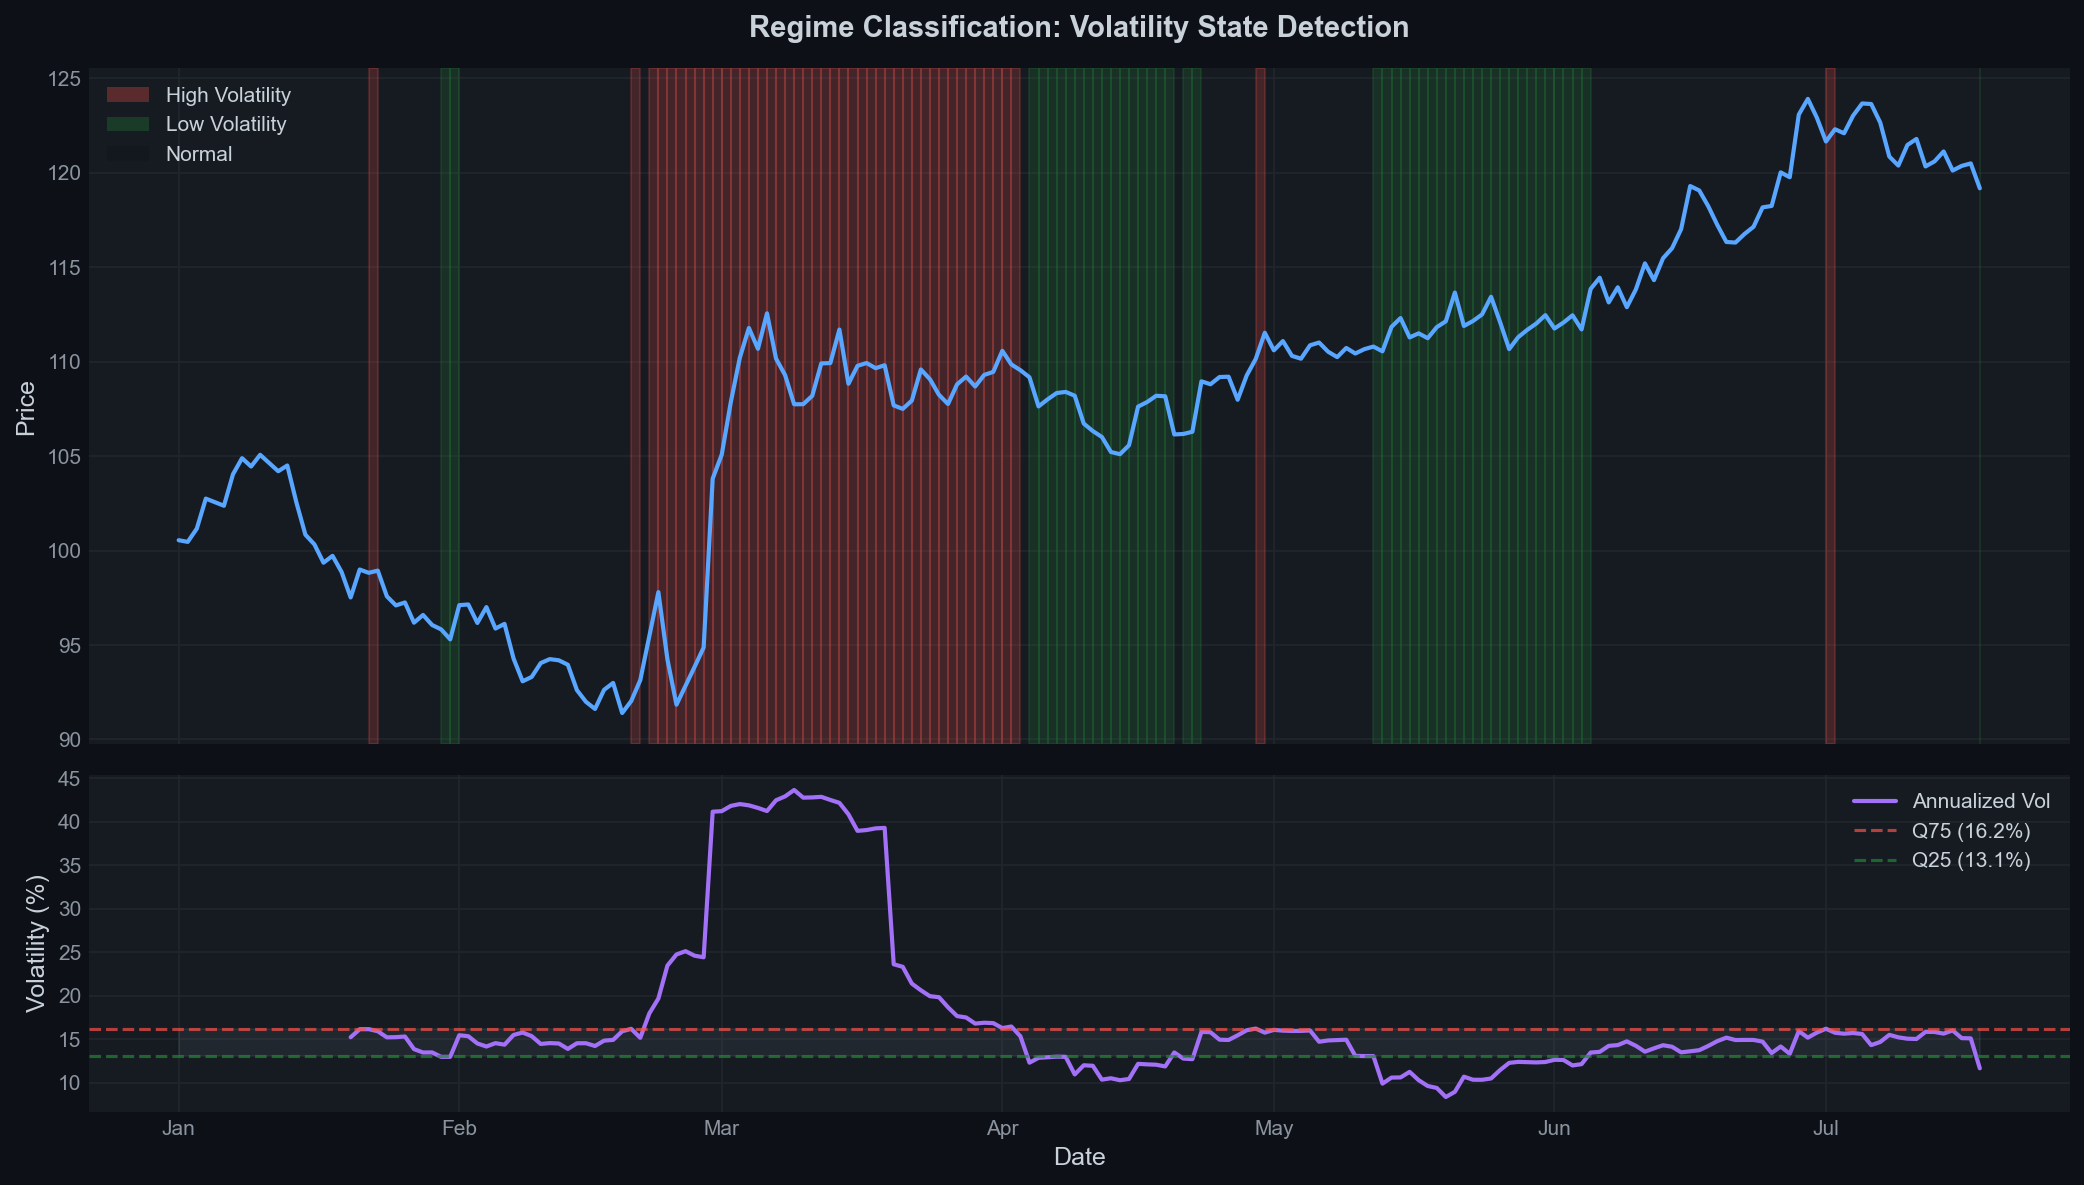
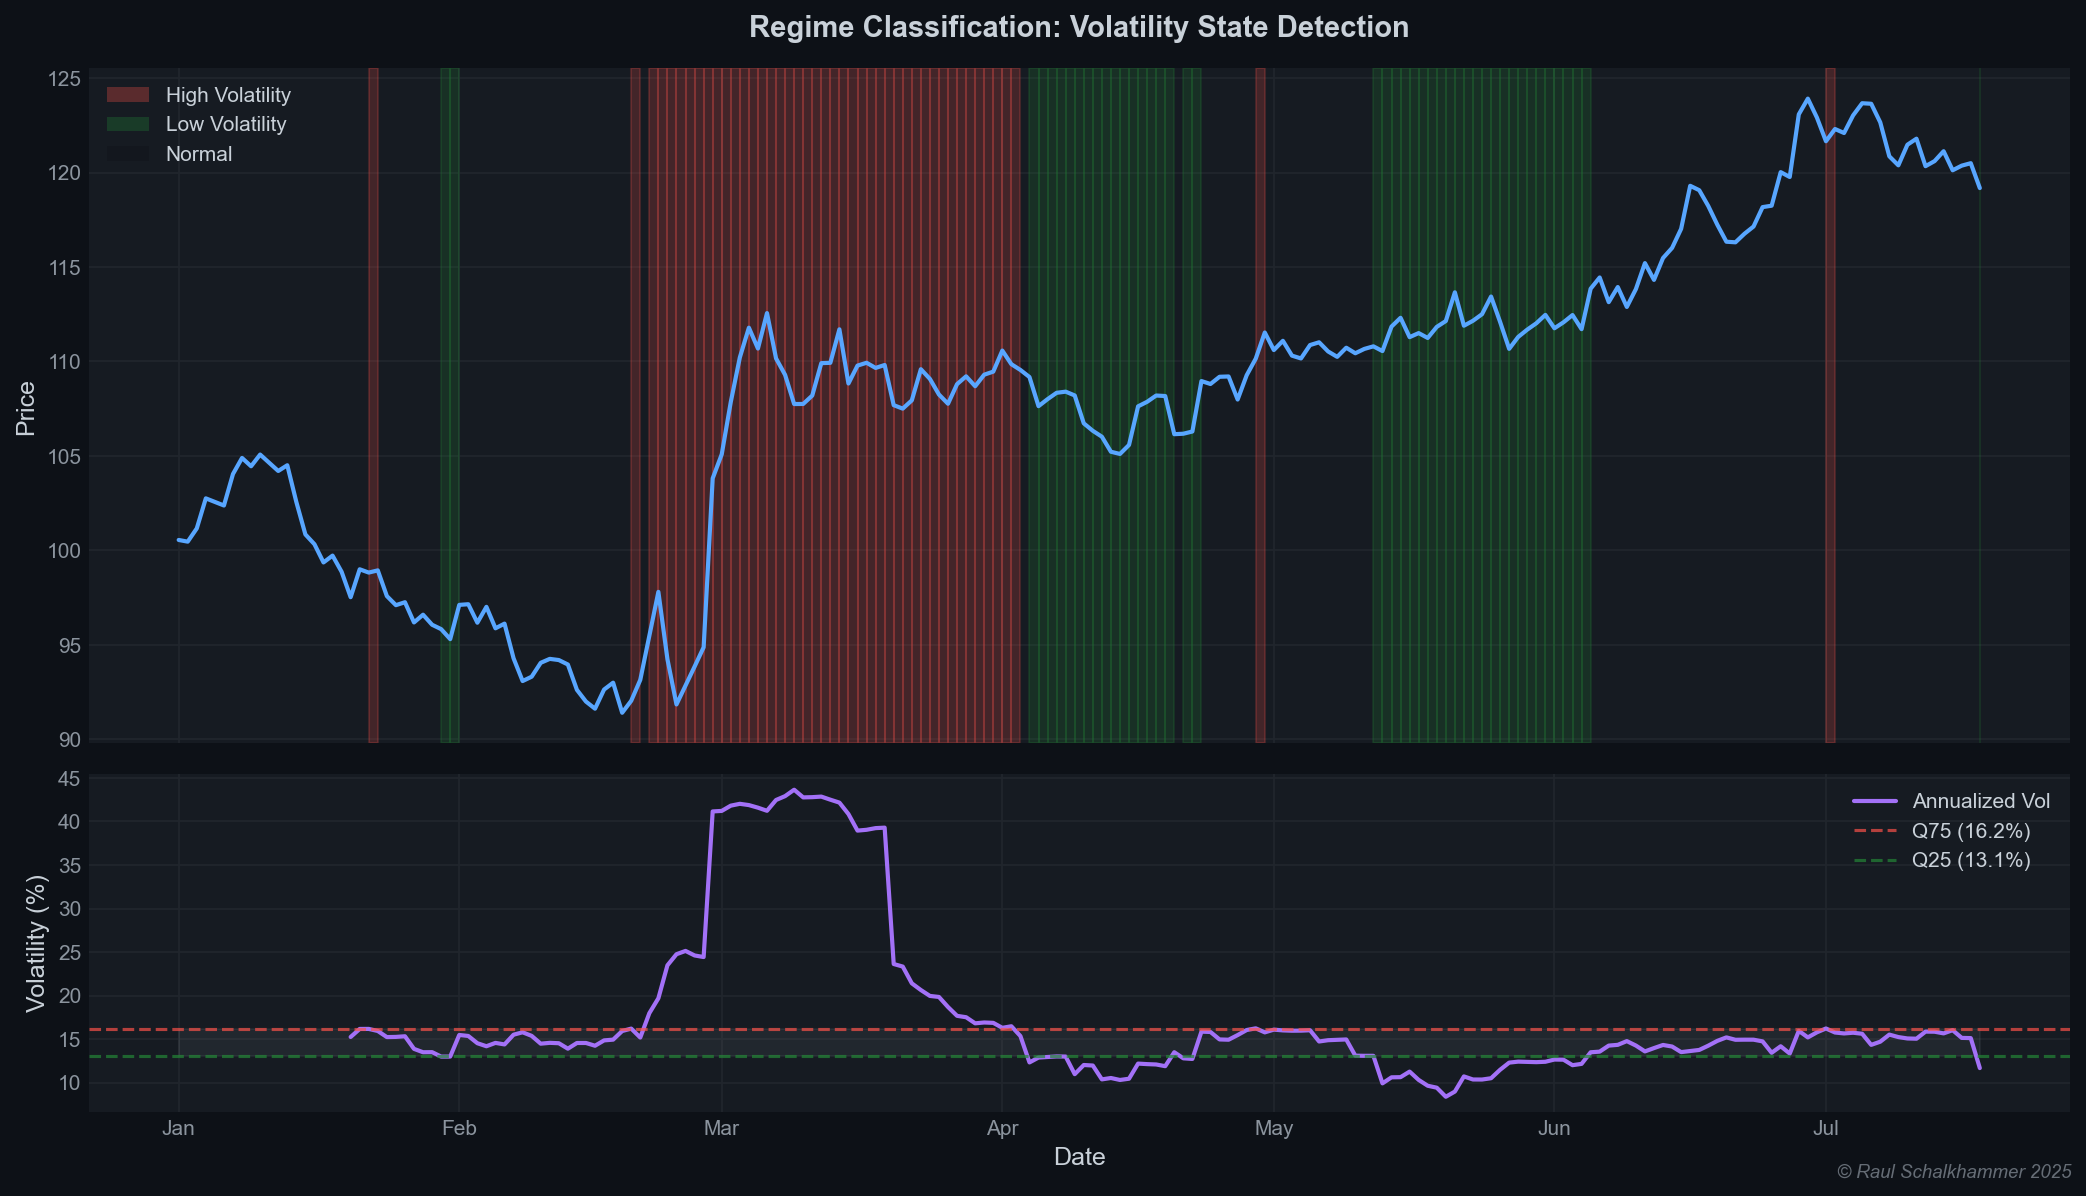
feat: Add author watermarks (© Raul Schalkhammer 2025)
- Added author attribution to README header
- Added watermark function to plot generator
- Regenerated all visualizations with watermarks

diff --git a/generate_readme_plots.py b/generate_readme_plots.py
@@ -26,6 +26,17 @@ plt.rcParams['legend.edgecolor'] = '#30363d'
 # Create output directory
 os.makedirs('docs/images', exist_ok=True)
 
+# Watermark configuration
+WATERMARK_TEXT = "© Raul Schalkhammer 2025"
+
+def add_watermark(fig):
+    """Add author watermark to figure."""
+    fig.text(0.99, 0.01, WATERMARK_TEXT, 
+             fontsize=9, color='#8b949e', alpha=0.7,
+             ha='right', va='bottom',
+             transform=fig.transFigure,
+             style='italic')
+
 # =============================================================================
 # 1. EQUITY CURVE WITH DRAWDOWN
 # =============================================================================
@@ -92,6 +103,7 @@ def plot_equity_drawdown():
     ax2.xaxis.set_major_locator(mdates.MonthLocator(interval=2))
     
     plt.tight_layout()
+    add_watermark(fig)
     plt.savefig('docs/images/equity_drawdown.png', dpi=150, 
                 bbox_inches='tight', facecolor='#0d1117')
     plt.close()
@@ -147,6 +159,7 @@ def plot_monthly_heatmap():
                  fontsize=14, fontweight='bold', pad=15)
     
     plt.tight_layout()
+    add_watermark(fig)
     plt.savefig('docs/images/monthly_heatmap.png', dpi=150, 
                 bbox_inches='tight', facecolor='#0d1117')
     plt.close()
@@ -225,6 +238,7 @@ def plot_regime_analysis():
     ax2.xaxis.set_major_locator(mdates.MonthLocator())
     
     plt.tight_layout()
+    add_watermark(fig)
     plt.savefig('docs/images/regime_analysis.png', dpi=150, 
                 bbox_inches='tight', facecolor='#0d1117')
     plt.close()
@@ -292,6 +306,7 @@ def plot_entropy_analysis():
     ax3.xaxis.set_major_locator(mdates.MonthLocator())
     
     plt.tight_layout()
+    add_watermark(fig)
     plt.savefig('docs/images/entropy_analysis.png', dpi=150, 
                 bbox_inches='tight', facecolor='#0d1117')
     plt.close()
@@ -352,6 +367,7 @@ def plot_wfo_schema():
             fontsize=11, style='italic', color='#8b949e', ha='center')
     
     plt.tight_layout()
+    add_watermark(fig)
     plt.savefig('docs/images/wfo_schema.png', dpi=150, 
                 bbox_inches='tight', facecolor='#0d1117')
     plt.close()

diff --git a/README.md b/README.md
@@ -2,6 +2,10 @@
 
 **A quantitative capital allocation and stress-testing system designed for regime-aware portfolio construction under strict leverage and drawdown constraints.**
 
+> **Author**: Raul Schalkhammer  
+> **Year**: 2025  
+> **License**: All Rights Reserved
+
 ---
 
 ## 1. Abstract
